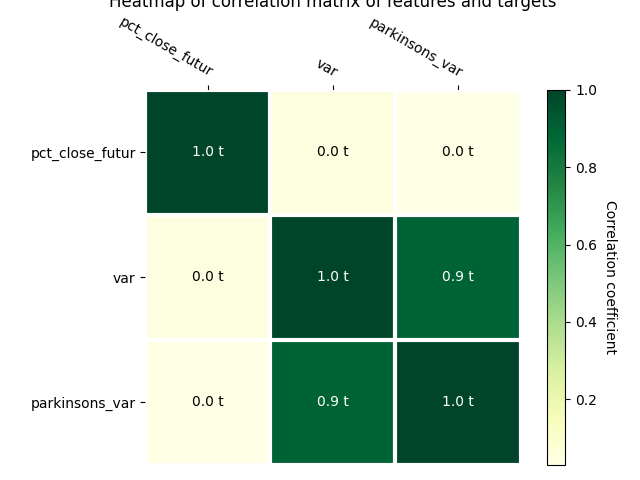
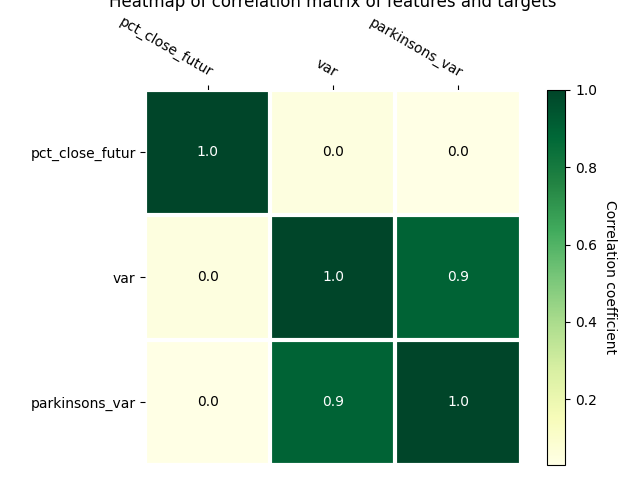
Skip noise.

diff --git a/main.py b/main.py
@@ -352,7 +352,7 @@ def main() -> int:
     fig, ax = plt.subplots()
     im, cbar = heatmap(corrmatrix, cm_labels, cm_labels, ax=ax,
                        cmap="YlGn", cbarlabel="Correlation coefficient")
-    texts = annotate_heatmap(im, valfmt="{x:.1f} t")
+    texts = annotate_heatmap(im, valfmt="{x:.1f}")
 
     fig.tight_layout()
 
